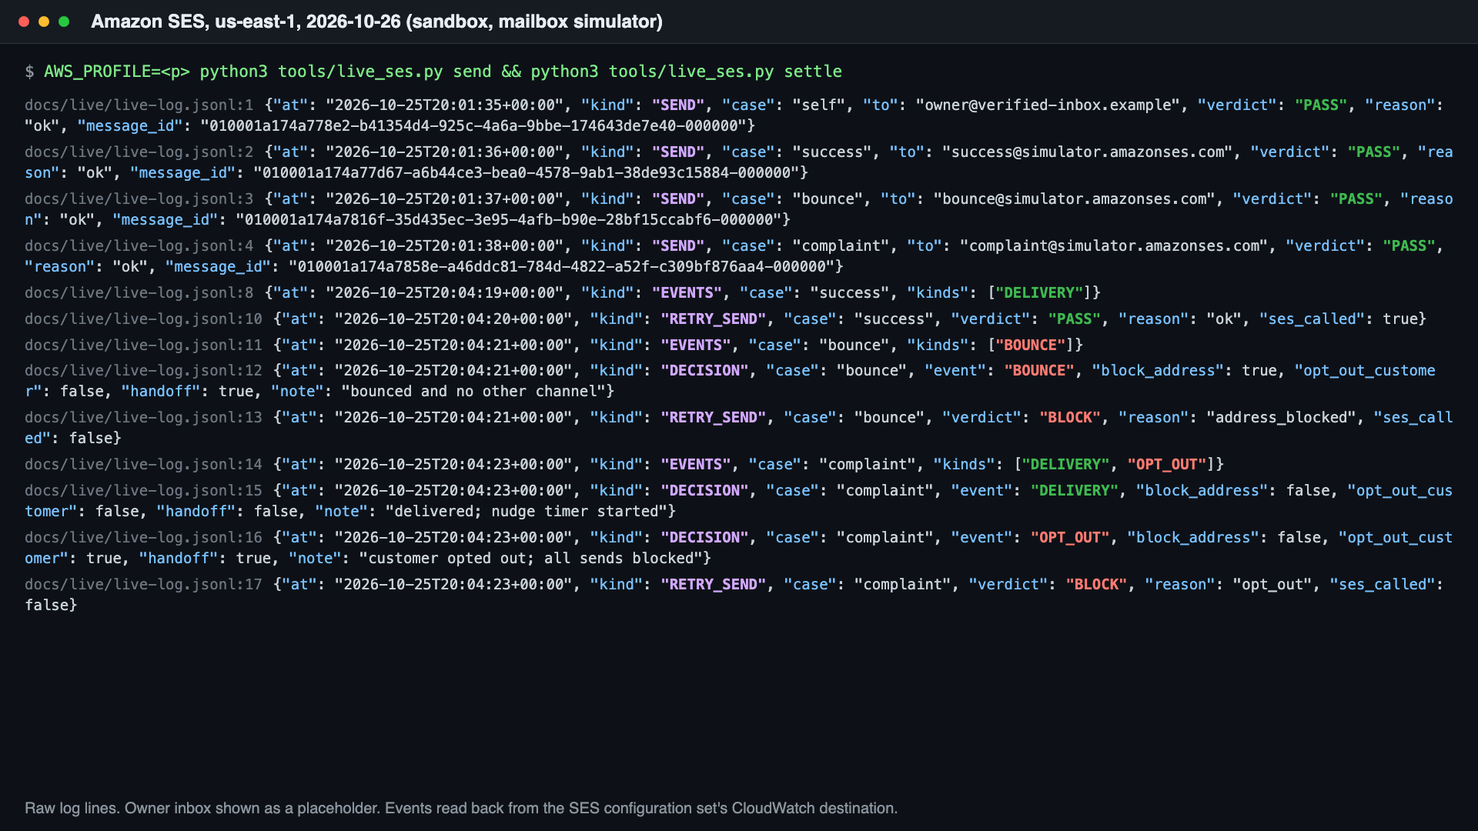
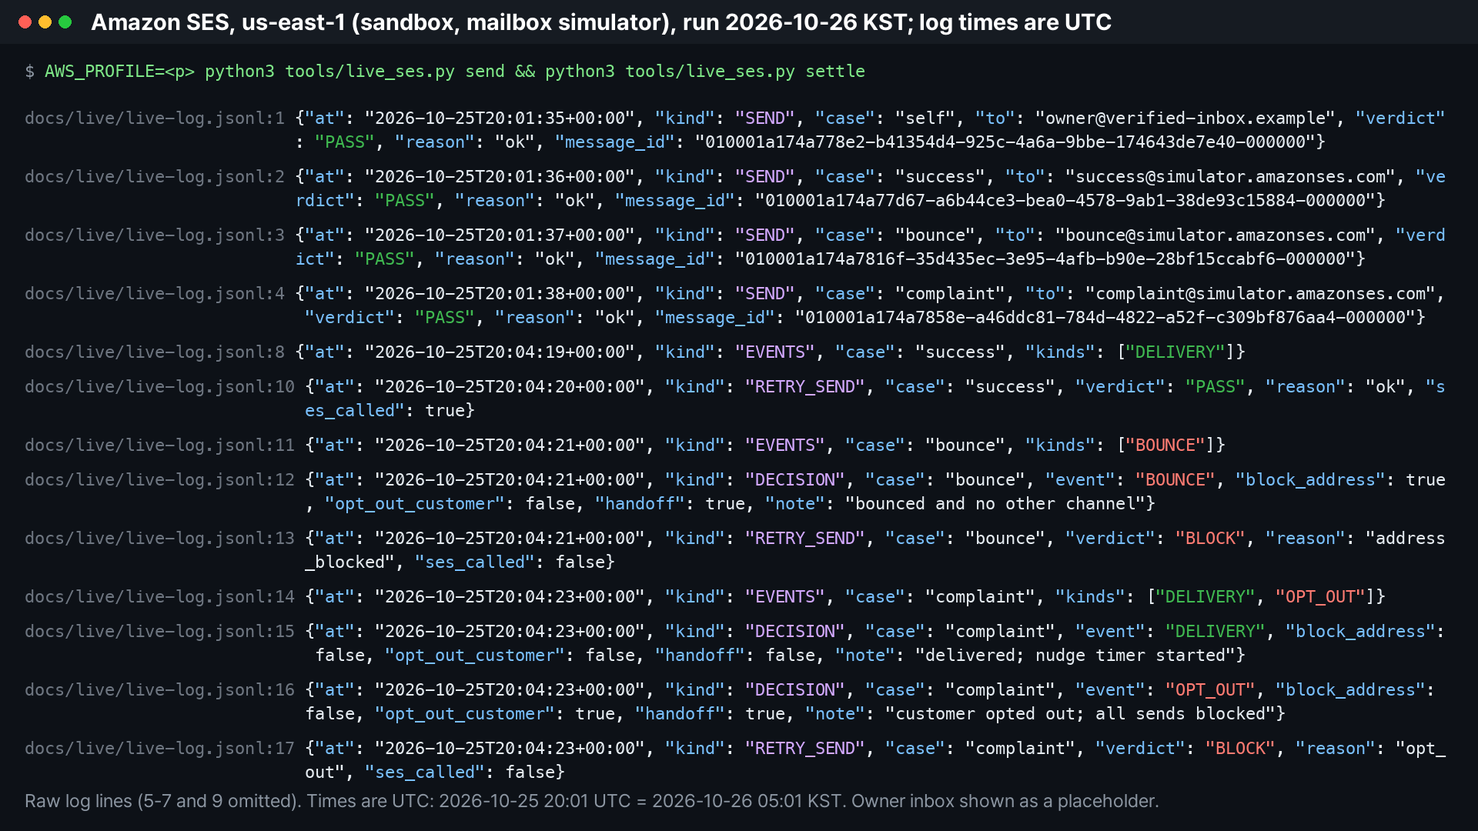
Weekday check on reply dates, Bedrock rerun, recorded UI segments, README scaling and evidence check
- Reply assist: a weekday word that disagrees with the posted date hands off (weekday_mismatch), nothing posted
- Bedrock: 3 live Converse calls rerun, appended to docs/live/bedrock-log.jsonl
- tools/check_readme.py: evidence paths in 'What is real' must exist and live call counts must match the logs
- README: CDS services that ran live, Scaling, partner offer, borrowed execution role
- 143 tests

Claude-Session: https://claude.ai/code/session_01KBRDxNb1dx8UYKVwQ3M584

diff --git a/tools/check_readme.py b/tools/check_readme.py
@@ -1,9 +1,81 @@
-"""S6: README test count must equal the real pytest result. Usage: python tools/check_readme.py"""
-import pathlib, re, subprocess, sys
-root = pathlib.Path(__file__).resolve().parent.parent
-out = subprocess.run([sys.executable, "-m", "pytest", "-q"], cwd=root, capture_output=True, text=True).stdout
-m = re.search(r"(\d+) passed", out)
-claimed = re.search(r"<!--tests-->(\d+)<!--/tests-->", (root / "README.md").read_text())
-ok = bool(m and claimed and m[1] == claimed[1] and "failed" not in out)
-print(f"pytest passed={m[1] if m else None} README={claimed[1] if claimed else None} -> {'OK' if ok else 'MISMATCH'}")
-sys.exit(0 if ok else 1)
+"""S6: the README must match what the repo really has. Usage: python tools/check_readme.py
+1. the test count in the README equals the real pytest result;
+2. every path in the Evidence column of "What is real and what is simulated" exists;
+3. the live-call counts the README states (<!--live:name=N-->) equal the matching event lines in docs/live/*.jsonl."""
+from __future__ import annotations
+
+import json
+import pathlib
+import re
+import subprocess
+import sys
+
+ROOT = pathlib.Path(__file__).resolve().parent.parent
+_PATHISH = re.compile(r"^[\w./-]+\.(py|md|jsonl|json|png|svg|yaml|txt)$|^[\w-]+/[\w./-]+/?$")
+
+
+def _evidence_cells(readme: str) -> list:
+    sec = re.search(r"## What is real and what is simulated\n(.*?)\n## ", readme, re.S)
+    cells = []
+    for line in (sec.group(1) if sec else "").splitlines():
+        parts = [p.strip() for p in line.strip().strip("|").split("|")]
+        if len(parts) >= 3 and parts[0] not in ("Part", "---"):
+            cells.append(parts[-1])
+    return cells
+
+
+def check_evidence(root: pathlib.Path, readme: str) -> list:
+    cells = _evidence_cells(readme)
+    if not cells:
+        return ["README: table 'What is real and what is simulated' not found"]
+    problems = []
+    for cell in cells:
+        refs = re.findall(r"`([^`]+)`", cell) + re.findall(r"\]\(([^)#]+)\)", cell)
+        for ref in refs:
+            if _PATHISH.match(ref) and not (root / ref).exists():
+                problems.append(f"README Evidence path does not exist: {ref}")
+    return problems
+
+
+def _rows(path: pathlib.Path) -> list:
+    return [json.loads(l) for l in path.read_text().splitlines() if l.strip()] if path.exists() else []
+
+
+def live_counts(root: pathlib.Path) -> dict:
+    live = root / "docs" / "live"
+    ses, sms, bed = _rows(live / "live-log.jsonl"), _rows(live / "sms-log.jsonl"), _rows(live / "bedrock-log.jsonl")
+    return {
+        "ses_sends": sum(r["kind"] == "SEND" for r in ses),
+        "ses_retries": sum(r["kind"] == "RETRY_SEND" and r.get("ses_called") is True for r in ses),
+        "sms_sends": sum(r["kind"] in ("SMS_SEND", "SMS_RETRY") and bool(r.get("message_id")) for r in sms),
+        "bedrock_calls": sum(r["kind"] == "bedrock_reply" and bool(r.get("usage")) for r in bed),
+    }
+
+
+def check_live_counts(root: pathlib.Path, readme: str) -> list:
+    real, problems = live_counts(root), []
+    for name, n in real.items():
+        m = re.search(rf"<!--live:{name}=(\d+)-->", readme)
+        if not m:
+            problems.append(f"README does not state {name} (<!--live:{name}=N-->); the log has {n}")
+        elif int(m[1]) != n:
+            problems.append(f"README says {name}={m[1]}, the log has {n}")
+    return problems
+
+
+def main() -> int:
+    readme = (ROOT / "README.md").read_text()
+    out = subprocess.run([sys.executable, "-m", "pytest", "-q"], cwd=ROOT, capture_output=True, text=True).stdout
+    m = re.search(r"(\d+) passed", out)
+    claimed = re.search(r"<!--tests-->(\d+)<!--/tests-->", readme)
+    ok = bool(m and claimed and m[1] == claimed[1] and "failed" not in out)
+    print(f"pytest passed={m[1] if m else None} README={claimed[1] if claimed else None} -> {'OK' if ok else 'MISMATCH'}")
+    problems = check_evidence(ROOT, readme) + check_live_counts(ROOT, readme)
+    for p in problems:
+        print("MISMATCH:", p)
+    print(f"evidence paths and live counts -> {'OK' if not problems else 'MISMATCH'}")
+    return 0 if ok and not problems else 1
+
+
+if __name__ == "__main__":
+    sys.exit(main())

diff --git a/tests/test_reply_assist.py b/tests/test_reply_assist.py
@@ -185,3 +185,43 @@ def test_g13_client_factory_maps_bedrock_runtime():
         def client(self, name, region_name):
             return (name, region_name)
     assert make_client("bedrock", "us-east-1", B()) == ("bedrock-runtime", "us-east-1")
+
+
+# ---------- G13: weekday word in the customer's text must agree with the date that is posted ----------
+
+from domain.reading import weekday_conflict  # noqa: E402
+
+
+def test_g13_weekday_word_names_the_day_of_the_date():
+    sat, fri = date(2026, 10, 31), date(2026, 10, 30)
+    assert weekday_conflict("back on saturday morning", fri) is True
+    assert weekday_conflict("back on saturday morning", sat) is False
+    assert weekday_conflict("back on Sat", fri) is True and weekday_conflict("see you mon.", date(2026, 11, 2)) is False
+    assert weekday_conflict("friday or saturday", fri) is False  # any named day may match
+    assert weekday_conflict("3 cameras tomorrow", fri) is False  # no weekday word: nothing to check
+    assert weekday_conflict("saturday", None) is False
+
+
+def test_g13_model_date_with_wrong_weekday_is_handed_off_not_posted():
+    monday = datetime(2026, 10, 26, 12, 0)  # saturday is Oct 31; the model says Oct 30 (a Friday)
+    fa = FakeAssistant(AssistSuggestion(3, date(2026, 10, 30), "Which day?", "fake"))
+    svc, reg, email, t = build(fa, now=monday)
+    res = svc.handle_reply(t, "the three cameras will be back on saturday morning")
+    assert res.proposed_posting is None and t.state is ThreadState.HANDOFF
+    assert t.handoff_reason == "weekday_mismatch" and res.comparison.reason == "weekday_mismatch"
+    assert len(email.calls) == 1  # no follow-up sent either: a person decides
+    assert any(e["kind"] == "READ" and e["reason"] == "weekday_mismatch" for e in reg.entries())  # not silent
+
+
+def test_g13_model_date_with_matching_weekday_still_proposes_posting():
+    monday = datetime(2026, 10, 26, 12, 0)
+    fa = FakeAssistant(AssistSuggestion(3, date(2026, 10, 31), None, "fake"))
+    svc, _, _, t = build(fa, now=monday)
+    res = svc.handle_reply(t, "the three cameras will be back on saturday morning")
+    assert res.proposed_posting is not None and res.proposed_posting.return_date == date(2026, 10, 31)
+
+
+def test_g13_regex_reader_iso_date_with_wrong_weekday_is_handed_off():
+    svc, _, _, t = build(None)
+    res = svc.handle_reply(t, "I will bring 3 back on Friday 2026-10-31")  # Oct 31 2026 is a Saturday
+    assert res.proposed_posting is None and t.handoff_reason == "weekday_mismatch"

diff --git a/tests/test_check_readme.py b/tests/test_check_readme.py
@@ -1,0 +1,46 @@
+"""S6: tools/check_readme.py also checks the README's Evidence paths and its claimed live-call counts against docs/live logs."""
+import importlib.util
+import json
+import pathlib
+
+ROOT = pathlib.Path(__file__).resolve().parent.parent
+spec = importlib.util.spec_from_file_location("check_readme", ROOT / "tools" / "check_readme.py")
+cr = importlib.util.module_from_spec(spec)
+spec.loader.exec_module(cr)
+
+README = (ROOT / "README.md").read_text()
+
+
+def make_root(tmp_path, ses=4, retry=2, sms=3, bedrock=6):
+    live = tmp_path / "docs" / "live"
+    live.mkdir(parents=True)
+    rows = [{"kind": "SEND"}] * ses + [{"kind": "RETRY_SEND", "ses_called": True}] * retry + [{"kind": "RETRY_SEND", "ses_called": False}]
+    (live / "live-log.jsonl").write_text("".join(json.dumps(r) + "\n" for r in rows))
+    rows = [{"kind": "SMS_SEND", "message_id": "m"}] * sms + [{"kind": "SMS_RETRY", "message_id": None}]
+    (live / "sms-log.jsonl").write_text("".join(json.dumps(r) + "\n" for r in rows))
+    rows = [{"kind": "bedrock_reply", "usage": {"totalTokens": 1}}] * bedrock + [{"kind": "bedrock_reply", "usage": {}}, {"kind": "bedrock_run_summary"}]
+    (live / "bedrock-log.jsonl").write_text("".join(json.dumps(r) + "\n" for r in rows))
+    return tmp_path
+
+
+def test_real_readme_passes_against_the_real_repo():
+    assert cr.check_evidence(ROOT, README) == []
+    assert cr.check_live_counts(ROOT, README) == []
+
+
+def test_missing_evidence_path_is_reported():
+    bad = README.replace("`docs/live/live-log.jsonl`", "`docs/live/no-such-log.jsonl`", 1)
+    problems = cr.check_evidence(ROOT, bad)
+    assert any("no-such-log.jsonl" in p for p in problems)
+
+
+def test_claimed_count_that_differs_from_the_log_is_reported(tmp_path):
+    root = make_root(tmp_path, bedrock=5)  # README claims 6 Bedrock calls
+    problems = cr.check_live_counts(root, README)
+    assert any("bedrock_calls" in p and "5" in p for p in problems)
+    assert cr.check_live_counts(make_root(tmp_path / "ok"), README) == []
+
+
+def test_readme_that_stops_stating_counts_fails():
+    stripped = README.replace("<!--live:sms_sends=3-->", "")
+    assert any("sms_sends" in p for p in cr.check_live_counts(ROOT, stripped))

diff --git a/domain/reading.py b/domain/reading.py
@@ -85,9 +85,28 @@ def ground_suggestion(text: str, today: date, quantity: Optional[int], return_da
     return ReplyReading(q, d, conf, text, "assist")
 
 
+_WEEKDAY_WORDS = [r"mon(day)?", r"tue(s|sday)?", r"wed(nesday)?", r"thu(r|rs|rsday)?", r"fri(day)?", r"sat(urday)?",
+                  r"sun(day)?"]
+
+
+def weekdays_named(text: str) -> set:
+    """Weekday numbers (Monday = 0) the customer's own words name: monday..sunday, mon..sun, 월요일..일요일."""
+    low = text.lower()
+    return {i for i, (ko, _) in enumerate(_WEEKDAYS)
+            if f"{ko}요일" in text or re.search(rf"\b{_WEEKDAY_WORDS[i]}\b", low)}
+
+
+def weekday_conflict(text: str, day: Optional[date]) -> bool:
+    """True when the text names weekday(s) and the date (from the reader or a model) falls on none of them."""
+    named = weekdays_named(text)
+    return bool(named and day is not None and day.weekday() not in named)
+
+
 def compare_with_ledger(reading: ReplyReading, item: UnreturnedItem) -> Comparison:
     if reading.confidence < CONFIDENT or reading.quantity is None or reading.return_date is None:
         return Comparison(False, "low_confidence")
+    if weekday_conflict(reading.raw, reading.return_date):
+        return Comparison(False, "weekday_mismatch")
     if reading.quantity != item.quantity:
         return Comparison(False, "quantity_mismatch")
     return Comparison(True, "match")

diff --git a/application/service.py b/application/service.py
@@ -106,7 +106,7 @@ class RecoveryService:
                                    "confidence": reading.confidence, "source": reading.source})
         if cmp.matches:
             return ReplyResult(reading, cmp, LedgerPosting(thread.item.item_id, reading.return_date, reading.quantity))
-        follow = self._follow_up(thread, suggestion)
+        follow = None if cmp.reason == "weekday_mismatch" else self._follow_up(thread, suggestion)
         waiting = follow is not None and follow.send_error is None and follow.verdict.verdict is not Verdict.BLOCK
         if not waiting and thread.state is not ThreadState.HANDOFF:
             thread.handoff(cmp.reason)

diff --git a/domain/models.py b/domain/models.py
@@ -75,7 +75,7 @@ class ReplyReading:
 @dataclass(frozen=True)
 class Comparison:
     matches: bool
-    reason: str  # match | quantity_mismatch | low_confidence
+    reason: str  # match | quantity_mismatch | low_confidence | weekday_mismatch
 
 
 @dataclass(frozen=True)

diff --git a/README.md b/README.md
@@ -1,4 +1,4 @@
-# Rental Recovery: an end-to-end agentic workflow on SES and SMS that stops before it over-sends
+# Rental Recovery: two AWS CDS services, Amazon SES and End User Messaging SMS, run live in an agentic workflow that stops before it over-sends
 
 Small rental shops chase overdue equipment by hand, and an AI agent that helps can over-send. Here, every message, from a person or an agent, goes through one gate first; a thread that closes by customer reply and matches the ledger saves about $0.73 of staff time (assumed 6 minutes at the US federal minimum wage of $7.25, [dol.gov](https://www.dol.gov/agencies/whd/minimum-wage), read 2026-10-27; South Korea is email only, own figure in [docs/ROI.md](docs/ROI.md)). The shop pays $0.25 per closed thread; threads handed to a person cost no fee. The lower bound is shown, not hidden: an unclosed thread costs at most its AWS send cost ($0.0002 for 2 emails, $0.024 for 2 texts), and one closed thread covers 30 unclosed text threads. AWS usage is billed to the shop's own account.
 
@@ -28,20 +28,26 @@ Read from each product's public page on 2026-10-26. "Not shown" means we did not
 
 | Part | Status | Evidence |
 |---|---|---|
-| SES sends through the gate (4) and DELIVERY, BOUNCE, OPT_OUT events read back | Real, us-east-1 sandbox, mailbox simulator and owner inbox only | `docs/live/live-log.jsonl`, `docs/live/EXCERPT.md` |
+| SES sends through the gate (<!--live:ses_sends=4-->4 first sends and <!--live:ses_retries=2-->2 retried sends that passed) and DELIVERY, BOUNCE, OPT_OUT events read back | Real, us-east-1 sandbox, mailbox simulator and owner inbox only | `docs/live/live-log.jsonl`, `docs/live/EXCERPT.md` |
 | Customer reply read into quantity and date, posted, thread CLOSED | Reading is real; the reply travelled by the owner's Gmail, not SES receiving | live-log lines 18-19 |
-| End User Messaging SMS sends through the gate, and the result read back | Real, us-east-1 SMS sandbox, AWS simulator numbers only (the traffic stays inside AWS, no phone receives it): 3 sends PASS from a simulator origination number; delivery read back from CloudWatch `AWS/SMSVoice` (DELIVERY), the failure number not delivered (BOUNCE, retry BLOCK with 0 SMS calls), the account opt-out list read back (OPT_OUT, retry BLOCK with 0 SMS calls). Events come from CloudWatch counts, one send per minute, because the IAM user may not create an SNS event destination | `docs/live/sms-log.jsonl`, `tools/live_sms.py`, `adapters/sms_metrics.py`, `docs/screens/aws-sms-live.png` |
-| Lambda `events_handler` | Deployed without CloudFormation (`tools/deploy_direct.py`) and invoked 3 times: SMS delivery shape carrying the real SMS message id, SES bounce, and an unknown type that comes back `ignored: 1`. The invocations used documented event shapes; AWS did not push them, because SNS is denied to the IAM user | `docs/live/deploy-log.jsonl`, `docs/screens/aws-lambda-deploy.png` |
+| End User Messaging SMS sends through the gate, and the result read back | Real, us-east-1 SMS sandbox, AWS simulator numbers only (the traffic stays inside AWS, no phone receives it): <!--live:sms_sends=3-->3 sends PASS from a simulator origination number; delivery read back from CloudWatch `AWS/SMSVoice` (DELIVERY), the failure number not delivered (BOUNCE, retry BLOCK with 0 SMS calls), the account opt-out list read back (OPT_OUT, retry BLOCK with 0 SMS calls). Events come from CloudWatch counts, one send per minute, because the IAM user may not create an SNS event destination | `docs/live/sms-log.jsonl`, `tools/live_sms.py`, `adapters/sms_metrics.py`, `docs/screens/aws-sms-live.png` |
+| Lambda `events_handler` | Deployed without CloudFormation (`tools/deploy_direct.py`); it borrowed an existing log-only execution role because the IAM user may not create roles (the role name is visible on the screen, not hidden). Invoked 3 times: SMS delivery shape carrying the real SMS message id, SES bounce, and an unknown type that comes back `ignored: 1`. The invocations used documented event shapes; AWS did not push them, because SNS is denied to the IAM user | `docs/live/deploy-log.jsonl`, `docs/screens/aws-lambda-deploy.png` |
 | SES receiving, SNS topics, inbound Lambda (`template.yaml`) | Code, unit tests, `cfn-lint` pass; not deployed. SES receiving needs a domain with an MX record, which this account does not own; SNS `CreateTopic` is refused by IAM | `tests/test_lambda_handlers.py`, [AGENTS.md](AGENTS.md) |
 | AI agent | A scripted agent stands in for AgentCore; it goes through the same gate | `test_g11_no_path_to_sender_except_gate` |
-| Reply-reading assist on Amazon Bedrock (Converse, Nova Micro), called only when the regex reader's confidence is below 0.8 | Code and 17 tests (fake client). Live: 3 Converse calls on 2026-10-27 succeeded (192 input+output tokens on the first, about $0.00003 for all three); 2 answers were grounded in the customer's words and matched the ledger, the third stayed unread and nothing was guessed. Known limit: the first reply says Saturday (Oct 31 on the run's clock, Oct 26) and the model returned Oct 30; the ledger check compares quantity and a date inside the 14-day window, not weekday against date. An earlier attempt on 2026-10-26 was refused by IAM (`AccessDeniedException`) and ended in logged hand-offs; both runs are in the log | `adapters/bedrock.py`, `tests/test_reply_assist.py`, `docs/live/bedrock-log.jsonl` |
+| Reply-reading assist on Amazon Bedrock (Converse, Nova Micro), called only when the regex reader's confidence is below 0.8 | Code and 21 tests (fake client). Live: <!--live:bedrock_calls=6-->6 Converse calls succeeded on 2026-10-27 in two runs of 3 (about $0.00007 in all; the first run was before the weekday check, the second after). Second run, same 3 replies: "saturday" came back as Oct 30 (a Friday) and "friday" as Oct 31 (a Saturday); the weekday check refused both (`weekday_mismatch`), nothing was posted and both went to a person. The third reply stayed unread and nothing was guessed. First run, kept in the log: the Saturday reply was posted as a match for Oct 30, which is the case the check now stops. An attempt on 2026-10-26 was refused by IAM (`AccessDeniedException`) and ended in logged hand-offs | `adapters/bedrock.py`, `domain/reading.py`, `tests/test_reply_assist.py`, `docs/live/bedrock-log.jsonl`, `docs/screens/aws-bedrock.png` |
 | Closure rate 8 of 14 reply variants | Measures the gate and hand-off rules, not language understanding (regex reader, synthetic replies) | `infrastructure/variant_eval.py` |
 | Deployment (`template.yaml`) | CloudFormation `CreateStack` refused by IAM on 2026-10-27 (logged). The parts the IAM user may create were deployed directly: Lambda `cds-rr-events`, SMS configuration set `cds-rr-sms`; SES configuration set `cds-rr` exists from the SES run | `docs/live/deploy-log.jsonl` |
 | Screen | Synthetic data, labelled on every screen | `docs/screens/` |
 
+A partner sells it per shop: install with `sam deploy` into the shop's own AWS account (the five steps in [docs/OFFERING.md](docs/OFFERING.md)), the shop pays $0.25 per closed thread and nothing for a thread handed to a person.
+
 Value is stated as a formula with its lower bound: `N × c × m / 60 × w − N × s × p` ([docs/ROI.md](docs/ROI.md)); base case 23,578 KRW (about $17) per month for 40 overdue items at the Korean minimum wage, or $16.56 at the US federal minimum wage (US row in the same file); low case below zero by the send cost only ($0.008 for 40 threads).
 
 ![Architecture](docs/architecture.png)
+
+## Scaling
+
+What limits it today, measured: the ledger is in memory (the demo and the live runs load it from code, nothing is stored between runs); events are read back from CloudWatch counts, which limits the live SMS run to one send per minute (`tools/live_sms.py`); the SES sandbox allows 200 emails per 24 hours and 1 per second (`get_account`). The design that replaces the polling is in `template.yaml`: SES and SMS events go to an SNS topic and are pushed into the `events_handler` Lambda, so there is no per-minute read and no polling loop. That path is unit-tested but not deployed here (SNS `CreateTopic` is refused by this account's IAM). A stored ledger is not built; it is listed under Not done yet.
 
 ## Gate verdicts on screen (390 px)
 
@@ -59,7 +65,7 @@ python3 -m venv .venv && .venv/bin/pip install pytest boto3
 .venv/bin/python -m infrastructure.web   # open http://127.0.0.1:8765
 ```
 
-Tests: <!--tests-->135<!--/tests--> passing (`tools/check_readme.py` fails if this number drifts).
+Tests: <!--tests-->143<!--/tests--> passing (`tools/check_readme.py` fails if this number drifts).
 
 ## AWS reproduction
 
@@ -100,7 +106,9 @@ Then the live runs: `AWS_PROFILE=<p> python3 tools/live_ses.py send` then `settl
 Eleven steps: text, bounce, held email, approval, delivery, agent nudge, daily-cap block, reply reading, ledger row.
 A second case shows opt-out. Screens at 390px are in `docs/screens/` (`python tools/capture.py` regenerates them and checks for horizontal scroll and text under 16px).
 
-## Live SES run (2026-10-26, us-east-1, sandbox account)
+## Live SES run (2026-10-26 KST, us-east-1, sandbox account)
+
+Times in the log are UTC: 2026-10-25 20:01 to 20:04 UTC is 2026-10-26 05:01 to 05:04 KST.
 
 Log: `docs/live/live-log.jsonl` (excerpt `docs/live/EXCERPT.md`). Four gated sends through `RecoveryService` + `SesEmailSender` (all PASS): owner inbox, `success@`, `bounce@`, `complaint@simulator.amazonses.com`.
 Events read back from the CloudWatch destination of the SES configuration set, then fed to `handle_event`:
@@ -136,7 +144,7 @@ Closed 8 of 14 (57%); all 8 expected-closed reached CLOSED; the 6 others handed 
 
 ## Not done yet
 
-SES receiving on a verified domain (no owned domain), events pushed by SNS into the Lambda (SNS denied to the IAM user; events are read from CloudWatch instead), a CloudFormation deploy (CreateStack denied), SMS to a real phone (the sandbox allows only verified numbers; we used simulator numbers), an AgentCore agent. The live Bedrock run is `AWS_PROFILE=<p> python3 tools/live_bedrock.py`. See SPEC.md S1, S3, S5, G13.
+SES receiving on a verified domain (no owned domain), events pushed by SNS into the Lambda (SNS denied to the IAM user; events are read from CloudWatch instead), a CloudFormation deploy (CreateStack denied), SMS to a real phone (the sandbox allows only verified numbers; we used simulator numbers), a stored ledger, an AgentCore agent. The live Bedrock run is `AWS_PROFILE=<p> python3 tools/live_bedrock.py`. See SPEC.md S1, S3, S5, G13.
 
 ## Pre-existing work and license
 

diff --git a/SPEC.md b/SPEC.md
@@ -32,7 +32,7 @@
 | G10 | 발송이 전달됐다 | DELIVERY 이벤트가 도착한다 | 발송 기록이 전달 완료로 바뀌고 재촉 타이머가 시작된다 | FN |
 | G11 | 에이전트(AgentCore)가 다음 행동을 제안한다 | 제안이 발송을 포함한다 | 에이전트 호출도 반드시 관문을 거치며, 관문 우회 경로는 코드에 없다 | TE·CR |
 | G12 | 심사자가 비로그인 창에서 데모를 연다 | 자기 입력(고객 답장 문장)을 넣는다 | 판독 결과와 장부 대조가 즉시 나온다(발송은 시뮬레이터 한정) | DP·TE |
-| G13 | 답장 판독 신뢰가 0.8 미만이고 답장 판독 보조(Amazon Bedrock Converse)가 연결돼 있다 | 답장 처리 | 보조를 1회 부르고, 모델 답은 고객 원문에 수량 근거가 있고 날짜가 오늘~60일일 때만 쓴다(지어낸 수량 거부). 장부 반영은 여전히 사람 확정. 모델이 쓴 되묻기 문안은 AGENT 발송 요청으로 같은 관문을 지난다. 보조 실패는 ASSIST_FAILED 기록 후 사람 인계(조용한 실패 0). 신뢰 0.8 이상이면 호출 0회 | TE·FN |
+| G13 | 답장 판독 신뢰가 0.8 미만이고 답장 판독 보조(Amazon Bedrock Converse)가 연결돼 있다 | 답장 처리 | 보조를 1회 부르고, 모델 답은 고객 원문에 수량 근거가 있고 날짜가 오늘~60일일 때만 쓴다(지어낸 수량 거부). 고객 원문에 요일 낱말(monday~sunday, mon~sun)이 있는데 그 날짜의 요일이 다르면 게시하지 않고 사람 인계(사유 weekday_mismatch, 되묻기 발송 없음, READ 기록에 사유). 장부 반영은 여전히 사람 확정. 모델이 쓴 되묻기 문안은 AGENT 발송 요청으로 같은 관문을 지난다. 보조 실패는 ASSIST_FAILED 기록 후 사람 인계(조용한 실패 0). 신뢰 0.8 이상이면 호출 0회 | TE·FN |
 
 ## 4. 비목표
 - 실고객·실임대업체의 개인정보(이름·연락처·거래 금액)를 레포·영상·README·제출물에 싣지 않는다. 시연 데이터는 임대 장부 구조(명세서·미회수·잔량)를 본뜬 합성 데이터이며 화면에 「합성」 표기를 한다.

diff --git a/docs/FAILURES.md b/docs/FAILURES.md
@@ -17,5 +17,6 @@ No silent failures: each row ends in a visible state (BLOCK, HOLD, APPROVAL queu
 | 11 | Agent tries to send around the gate | No code path exists | Layer test | `test_g11_no_path_to_sender_except_gate` |
 | 12 | Reply-reading model refused, throttled or answers in the wrong shape (Bedrock) | Logged `ASSIST_FAILED`; the reply falls back to the regex reading and a low-confidence reply is handed off | Hand-off item `low_confidence`; live example in `docs/live/bedrock-log.jsonl` (IAM refusal) | `test_g13_assist_failure_is_logged_and_hands_off`, `test_g13_bedrock_non_json_raises`, `test_g13_bedrock_bad_types_raise` |
 | 13 | Model invents a quantity the customer did not write | Answer not used (grounding check); hand-off | Hand-off item | `test_g13_invented_quantity_is_rejected`, `test_g13_invented_quantity_hands_off` |
+| 14 | The date (from the reader or a model) falls on a different weekday than the one the customer wrote ("saturday" read as a Friday date) | Not posted; no follow-up is sent; hand-off | Hand-off item `weekday_mismatch`; live example in `docs/live/bedrock-log.jsonl` lines 9-10 | `test_g13_model_date_with_wrong_weekday_is_handed_off_not_posted`, `test_g13_regex_reader_iso_date_with_wrong_weekday_is_handed_off` |
 
 Across 14 synthetic reply variants every thread ended CLOSED or HANDOFF, none silent: `test_every_variant_ends_closed_or_handed_off_never_silent`.
